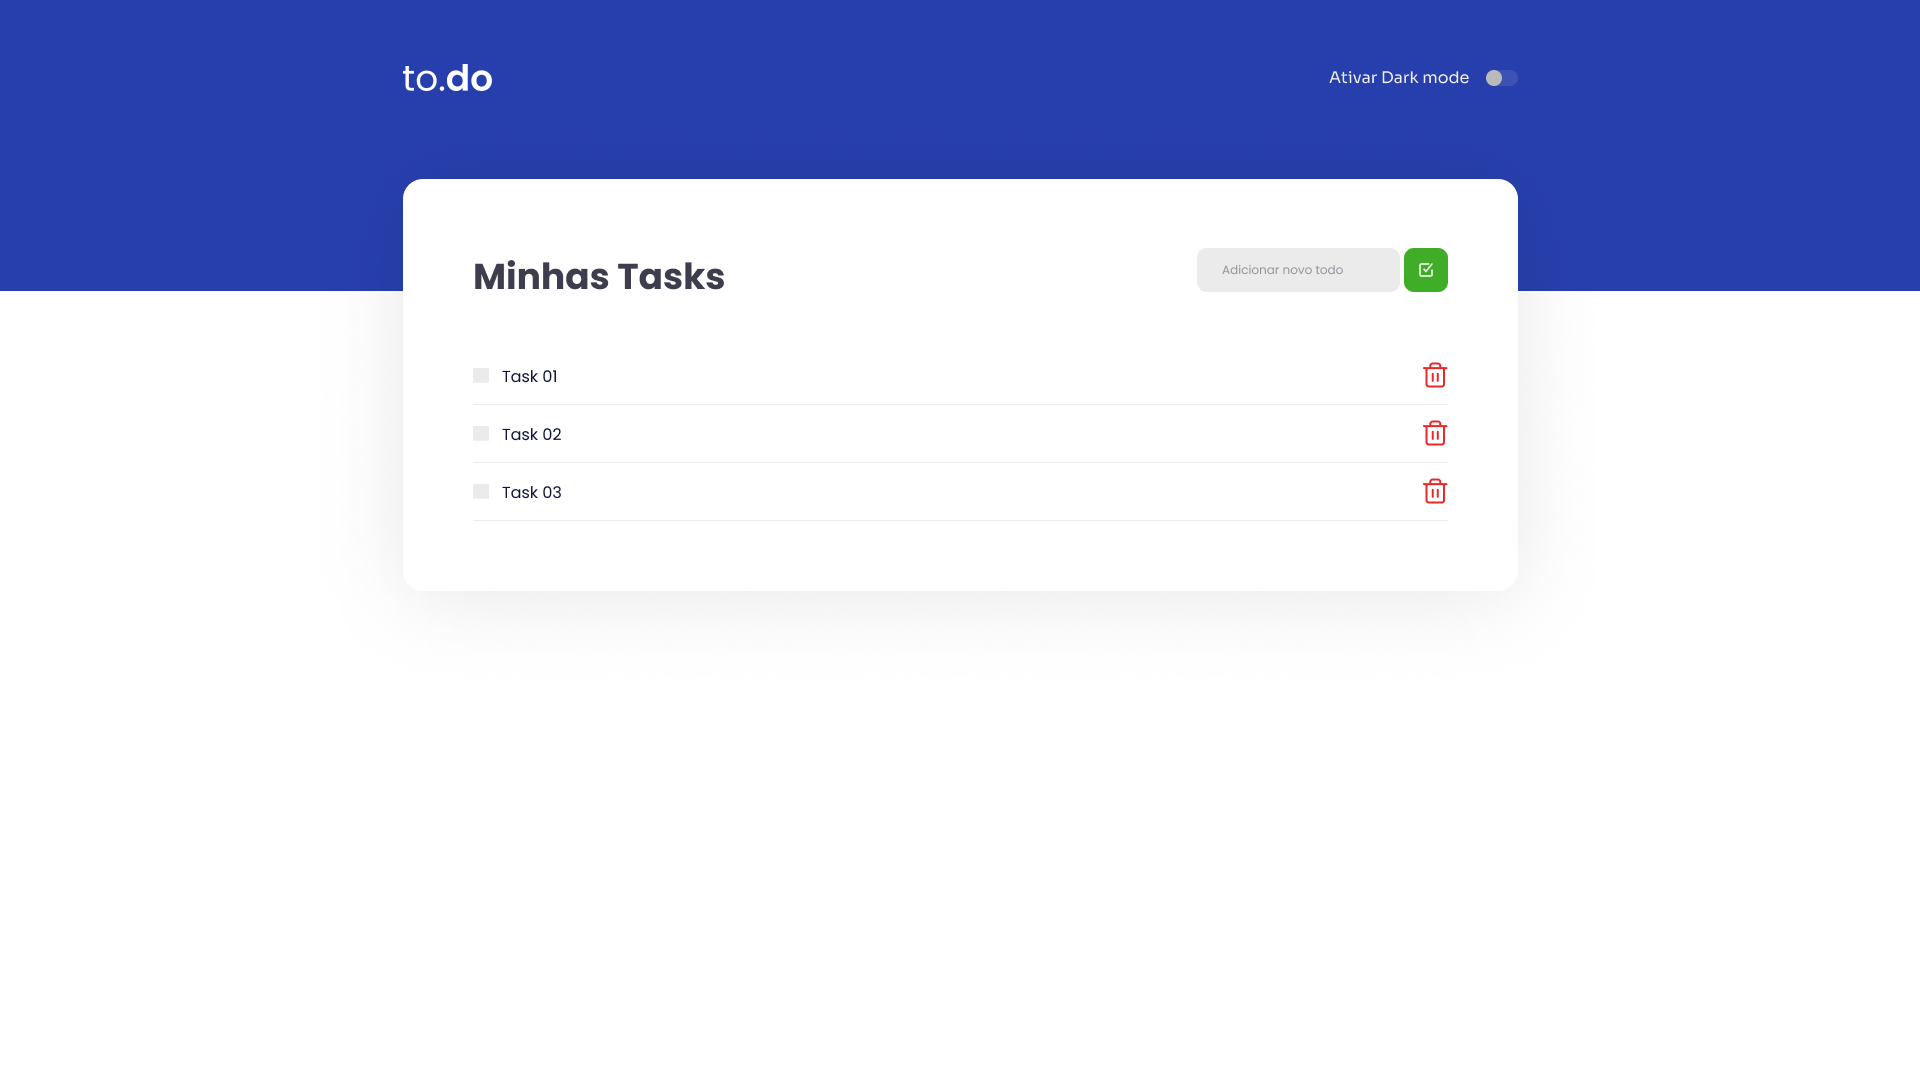
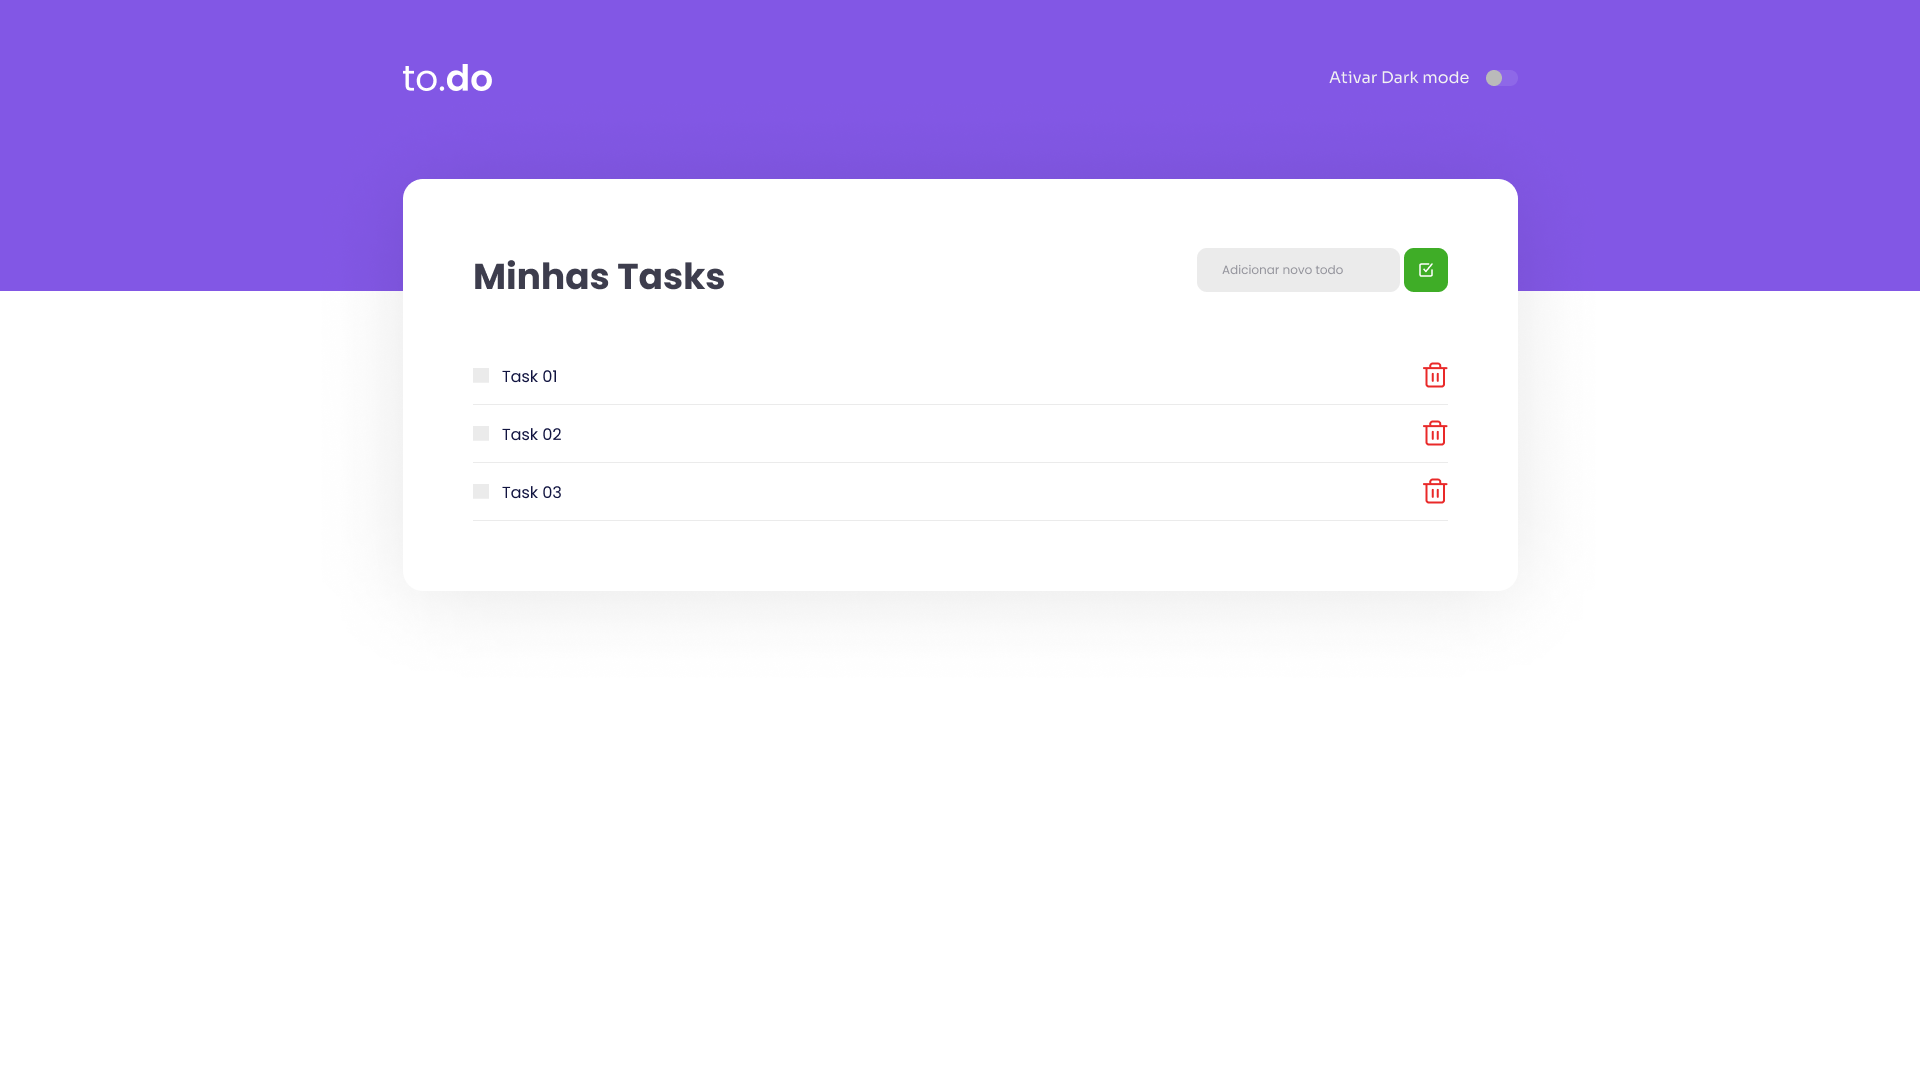
add responsivo

Changed region(s): [[0.0, 0.0, 1.0, 0.275]]

diff --git a/project/src/styles/tasklist.scss b/project/src/styles/tasklist.scss
@@ -29,8 +29,7 @@ section.task-list {
         background: var(--background);
         border: 0;
         color: var(--text);
-        padding: 12px 24px;
-        
+        padding: 12px 24px;        
         border-radius: 8px;
         border: 0;
         
@@ -105,7 +104,7 @@ section.task-list {
 
               &:checked {
                 & ~ .checkmark {
-                  background-color: var(--blue);
+                  background-color: var(--purple);
                 }
 
                 & ~ .checkmark:after {
@@ -158,25 +157,29 @@ section.task-list {
   }
 }
 
-main.mainTaskList.dark {
-  ul {
-    li {
-      border-bottom: 1px solid #b4b4b4;
+@media (max-width: 720px) {
+
+  section.task-list{
+    header.task-listHeader{
+      flex-direction: column;
+      gap: 2rem;
+
+      div.input-group{
+        width: 100%;
+        input{
+          width: 100%;
+        }
+      }
     }
-  } 
+  }
 }
 
-section.task-list.dark {
-  background-color: var(--shapes2);
-
-  header {
-    .input-group {      
-      input {
-        background: var(--background3);
-
-        &::placeholder {
-          color: var(--text-light);
-        }
+@media (max-width: 500px) {
+  section.task-list{
+    padding: 70px 30px;
+    header.task-listHeader{
+      h2{
+        font-size: 2rem;
       }
     }
   }

diff --git a/project/src/styles/global.scss b/project/src/styles/global.scss
@@ -1,13 +1,11 @@
 :root {
-  --blue: #273FAD;
-  --blue2: #001470;
+  --purple: #8257E5;
+  --purpleDark: #362853;
   --green: #3FAD27;
   --red: 	#ad273f;
   --background: #EBEBEB;
-  --background2: #1B1E2E;
-  --background3: #FFF;
+  --backgroundDark: #1F1F23;
   --shapes: #FFFFFF;
-  --shapes2: #e2e2e2;
   --text-title: #3D3D4D;
   --text: #1C1C29;
   --text-light: #A09CB1;
@@ -24,12 +22,12 @@ body {
   color: #121214;
 
   main.main{
-    height: 100vh;
+    padding-bottom: 5rem;
+    min-height: 100vh;
     background-color: var(--background)
   }
-  main.main.dark{
-    height: 100vh;
-    background-color: var(--background2)
+  main.main.dark{    
+    background-color: var(--backgroundDark)
   }
 }
 
@@ -40,9 +38,14 @@ input, textarea {
 .container {
   max-width: 1115px;
   margin: 0 auto;
-  padding: 2.5rem 1rem;
 }
 
 button, .checkmark {
   cursor: pointer;
+}
+
+@media (max-width: 1130px) {
+  .container {
+    max-width: 90%;
+  }
 }

diff --git a/project/src/components/TaskList.tsx b/project/src/components/TaskList.tsx
@@ -49,7 +49,7 @@ export function TaskList(props: IDarkMode) {
 
   return (
     <section className={!ativo ? "task-list container light" : "task-list container dark" }>
-      <header>
+      <header className="task-listHeader">
         <h2>Minhas tasks</h2>
 
         <div className="input-group">
@@ -65,7 +65,7 @@ export function TaskList(props: IDarkMode) {
         </div>
       </header>
 
-      <main className={!ativo ? "mainTaskList container light" : "mainTaskList container dark" }>
+      <main className={!ativo ? "mainTaskList  light" : "mainTaskList dark" }>
         <ul>
           {tasks.map(task => (
             <li key={task.id}>

diff --git a/project/src/styles/header.scss b/project/src/styles/header.scss
@@ -1,9 +1,8 @@
 header.header {
-  background: var(--blue);
+  background: var(--purple);
   padding-top: 2rem;
   
   > div.containerHeader {
-    max-width: 1120px;
     margin: 0 auto;
     padding: 2rem 0 12rem;
     display: flex;
@@ -72,5 +71,5 @@ header.header {
 }
 
 header.header.dark{
-  background: var(--blue2);
+  background: var(--purpleDark);
 }

diff --git a/project/public/index.html b/project/public/index.html
@@ -3,10 +3,8 @@
 <head>
   <meta charset="UTF-8">
   <meta name="viewport" content="width=device-width, initial-scale=1.0">
-
   <link rel="preconnect" href="https://fonts.gstatic.com">
   <link href="https://fonts.googleapis.com/css2?family=Poppins:wght@400;600&display=swap" rel="stylesheet">
-
   <title>to.do</title>
 </head>
 <body>

diff --git a/project/src/components/Header.tsx b/project/src/components/Header.tsx
@@ -15,7 +15,7 @@ export function Header(props: IDarkMode) {
 
   return (
     <header className={!ativo? "header light" : "header dark"}>
-      <div className="containerHeader">
+      <div className="containerHeader container">
         <div>
           <img src="/logo.svg" alt="to.do"/>
         </div>
